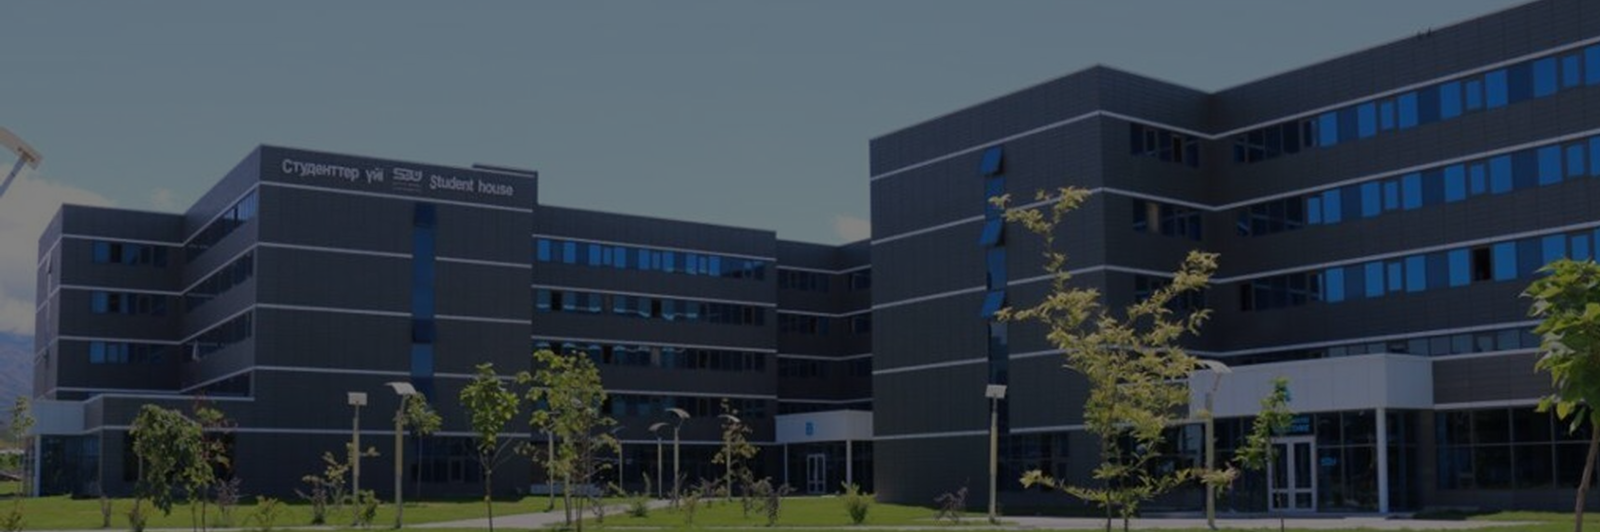
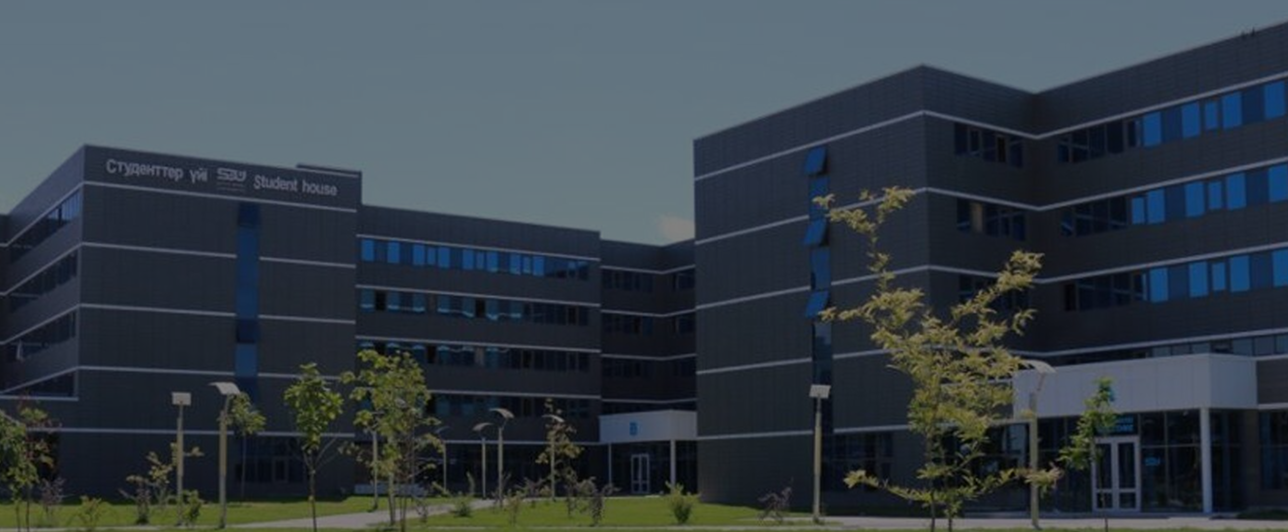
InfoCard.tsx SingleBanner.tsx and Footer.tsx component

Changed region(s): [[0.5901, 0.0, 1.0, 1.0], [0.0, 0.2406, 0.559, 1.0]]

diff --git a/src/pages/home/components/ChakraCarousel.tsx b/src/pages/home/components/ChakraCarousel.tsx
@@ -1,10 +1,12 @@
 'use client'
 
 import React from 'react'
-import {Box, Text, IconButton, useBreakpointValue, Heading, Link, Flex,  VStack} from '@chakra-ui/react'
+import {Box, Text, IconButton, useBreakpointValue, Heading, Link, Flex, VStack, Container, HStack} from '@chakra-ui/react'
 import { LuChevronRight , LuChevronLeft } from "react-icons/lu";
 import Slider, {Settings} from 'react-slick'
 import { LuArrowUpRight } from "react-icons/lu";
+
+import SDUPNG from '@/general/assets/colors/sdu.png'
 
 
 const settings: Settings = {
@@ -21,10 +23,12 @@ export default function Carousel() {
   const [slider, setSlider] = React.useState<Slider | null>(null)
 
   const top = useBreakpointValue({ base: '90%', md: '50%' })
+  const topText = useBreakpointValue({ base: '25%', md: '75%' })
   // const side = useBreakpointValue({ base: '30%', md: '-30%' })
+  // 'https://images.unsplash.com/photo-1612852098516-55d01c75769a?ixlib=rb-1.2.1&ixid=MnwxMjA3fDB8MHxwaG90by1yZWxhdGVkfDR8fHxlbnwwfHx8fA%3D%3D&auto=format&fit=crop&w=900&q=60',
 
   const cards = [
-    'https://images.unsplash.com/photo-1612852098516-55d01c75769a?ixlib=rb-1.2.1&ixid=MnwxMjA3fDB8MHxwaG90by1yZWxhdGVkfDR8fHxlbnwwfHx8fA%3D%3D&auto=format&fit=crop&w=900&q=60',
+    SDUPNG,
     'https://images.unsplash.com/photo-1627875764093-315831ac12f7?ixlib=rb-1.2.1&ixid=MnwxMjA3fDB8MHxwaG90by1yZWxhdGVkfDJ8fHxlbnwwfHx8fA%3D%3D&auto=format&fit=crop&w=900&q=60',
     'https://images.unsplash.com/photo-1571432248690-7fd6980a1ae2?ixlib=rb-1.2.1&ixid=MnwxMjA3fDB8MHxwaG90by1yZWxhdGVkfDl8fHxlbnwwfHx8fA%3D%3D&auto=format&fit=crop&w=900&q=60',
   ]
@@ -89,12 +93,14 @@ export default function Carousel() {
           <Box  borderRadius={'25px'} width={'90vw'} height={'720px'} overflow={'hidden'}>
             <Slider  {...settings} ref={(slider) => setSlider(slider)}>
               {cards.map((url, index) => (
-                  <Box
+                  <Flex
+                      direction={'column'}
+                      // justifyContent={'center'}
                       key={index}
-                      height={'6xl'}
+                      height={"720px"}
                       position="relative"
                       justifyContent={"end"}
-                      backgroundPosition="center"
+                      backgroundPosition="top center"
                       backgroundRepeat="no-repeat"
                       backgroundSize="cover"
                       backgroundImage={`url(${url})`}
@@ -113,52 +119,52 @@ export default function Carousel() {
                     {/*<Text textStyle={'StyreneALCBold'} fontSize={'96px'} color={"white"}>SDU Residence</Text>*/}
                     {/*<Text textStyle={'StyreneALCMiddle'} fontSize={'24px'} color={'white'}>Your perfect choice for modern life</Text>*/}
 
-                    <Flex
+                    <Container
                         position="relative"
-                        bottom={0}
-                        top={550}
-                        left={0}
-                        right={0}
-                        justifyContent="space-between"
-                        alignItems="center"
+                        top={topText}
+
+                        alignItems="start"
                         color="white"
                         p={{ base: 4, md: 8 }}
                         zIndex={2}
                     >
-                      <VStack gap={"30px"} alignItems="start" >
-                        <Heading
+                      <HStack justifyContent={'space-between'} alignItems={'center'}>
+
+                        <VStack gap={"30px"} alignItems="start" >
+                          <Heading
 
 
-                            textStyle={'StyreneALCBold'}
-                            fontSize={'96px'}
-                            as="h2"
-                            size={{ base: 'xl', md: '2xl' }}
-                            mb={2}
-                            color="white"
-                        >
-                          SDU Residence
-                        </Heading>
-                        <Text  textStyle={'StyreneALCMiddle'} fontSize={'24px'} color="white">
-                          Great place to start modern life
-                        </Text>
-                      </VStack>
-                      <Flex height={"100%"} direction="column" alignItems="center" justifyContent="flex-end">
-                        <Link
-                            marginTop={"auto"}
-                            href="/slide"
-                            color="white"
-                            textDecoration="none"
-                            _hover={{ textDecoration: 'underline' }}
-                            fontSize={'24px'}
+                              textStyle={'StyreneALCBold'}
+                              fontSize={'96px'}
+                              as="h2"
+                              size={{ base: 'xl', md: '2xl' }}
+                              mb={2}
+                              color="white"
+                          >
+                            SDU Residence
+                          </Heading>
+                          <Text  textStyle={'StyreneALCMiddle'} fontSize={'24px'} color="white">
+                            Great place to start modern life
+                          </Text>
+                        </VStack>
+                        <VStack>
 
-                        >
-                          Learn more <LuArrowUpRight  size={'24px'} color={'white'} />
+                          <Link
+                              marginTop={"auto"}
+                              href="/slide"
+                              color="white"
+                              textDecoration="none"
+                              _hover={{ textDecoration: 'underline' }}
+                              fontSize={'24px'}
 
-                        </Link>
+                          >
+                            Learn more <LuArrowUpRight  size={'24px'} color={'white'} />
 
-                      </Flex>
-                    </Flex>
-                  </Box>
+                          </Link>
+                        </VStack>
+                      </HStack>
+                    </Container>
+                  </Flex>
 
               ))}
 

diff --git a/src/general/components/InfoCard/InfoCard.tsx b/src/general/components/InfoCard/InfoCard.tsx
@@ -6,13 +6,13 @@ interface CardProps {
 }
 const InfoCards: React.FC<CardProps> = ({title, subtitle}) => {
     return (
-        <Card.Root size="sm" minWidth="520px" maxHeight="138px"  borderRadius="25px" px="40px" paddingBottom={'10px'} paddingTop="10px" >
+        <Card.Root size="sm" minWidth="520px" maxHeight="138px"  borderRadius="25px" px="40px" paddingBottom={'10px'} paddin >
             <Card.Header>
                 <Heading fontStyle="StyreneALCBold"
                          fontSize="24px"
                          color="#52A0FF">{title}</Heading>
             </Card.Header>
-            <Card.Body fontStyle="StyreneALCMedium" fontSize="20px" color="#181818">
+            <Card.Body fontStyle="StyreneALCMedium" fontSize="20px" fontWeight='medium' color="#181818">
                 {subtitle}
             </Card.Body>
         </Card.Root>
